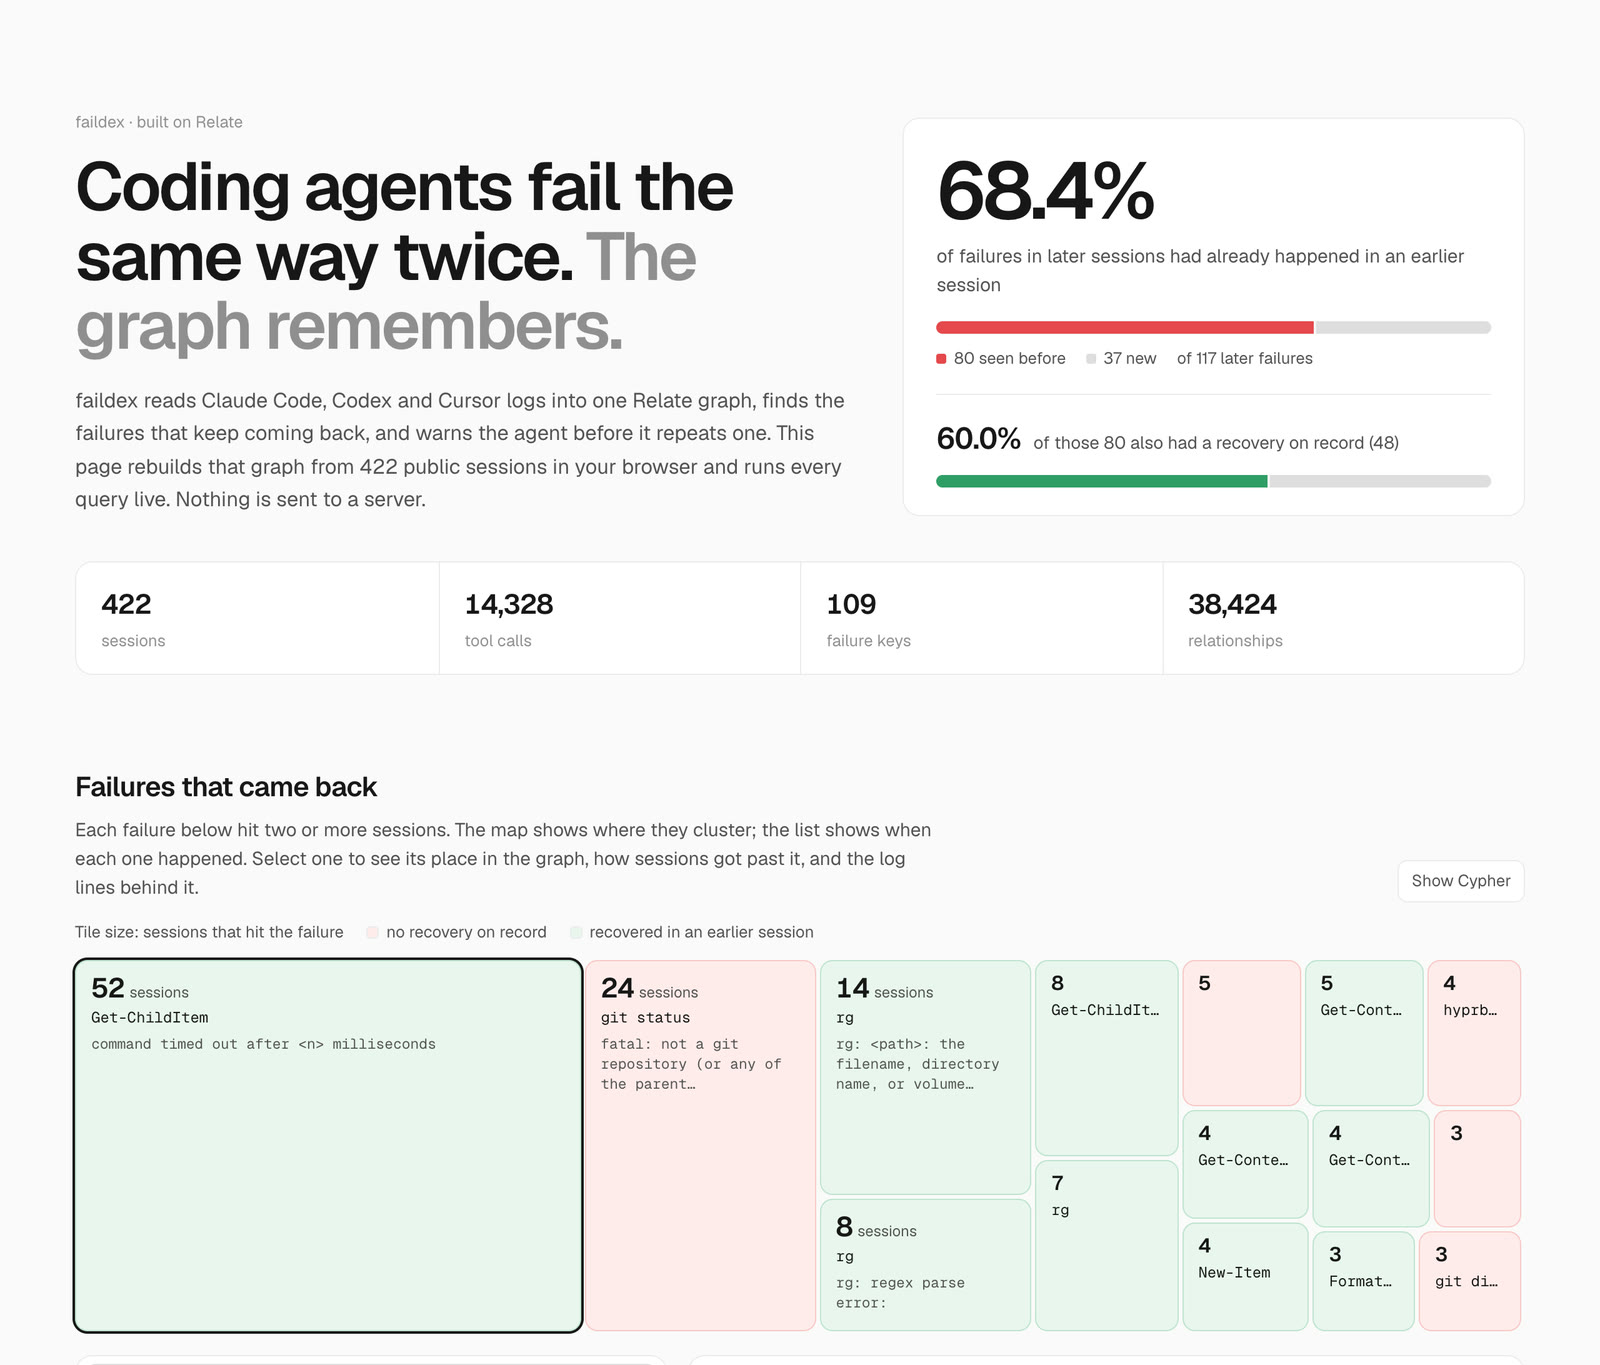
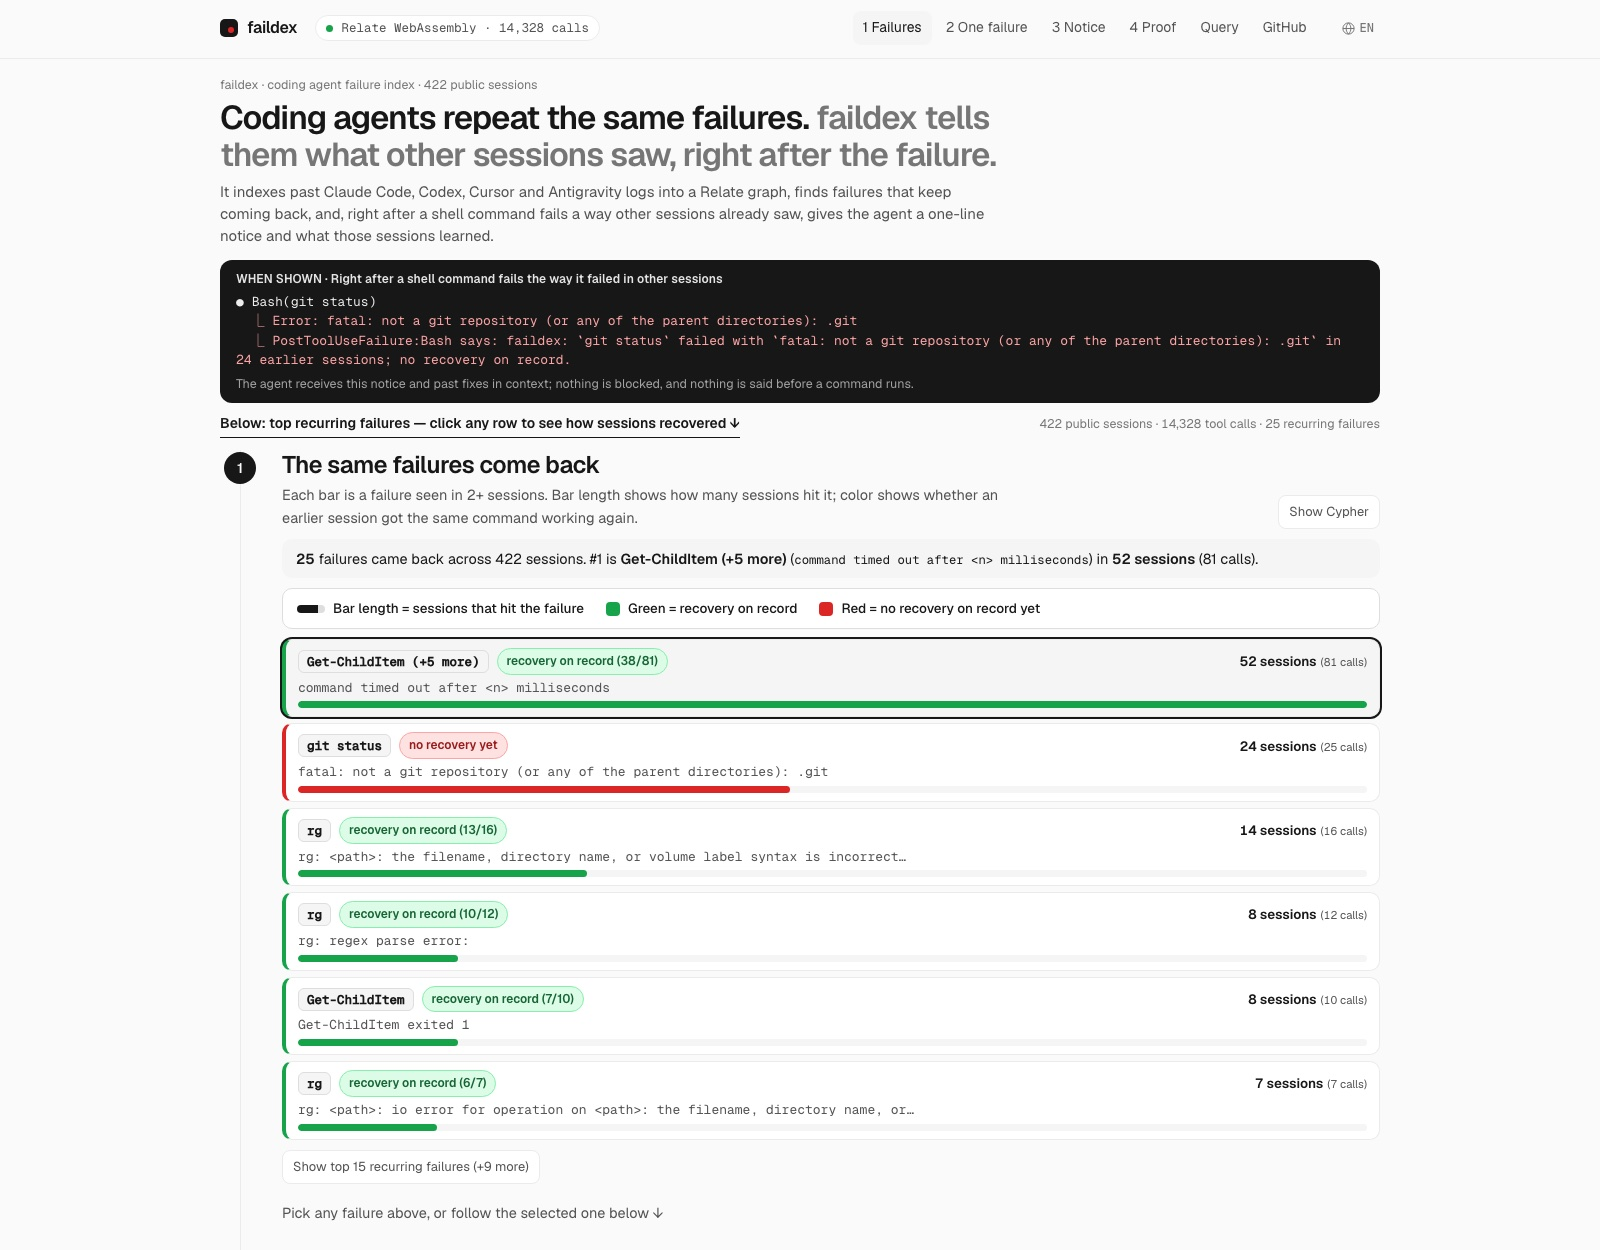
docs: README's first picture is the current demo, with the notice after a failure
The old screenshot was an earlier design of the browser demo, whose text said faildex
warns the agent before it repeats a failure. The new one is the demo's first screen
at 1600 px: the title, the PostToolUseFailure notice after `git status` fails, and the
top of the failures that came back. The alt text in both READMEs says so.

diff --git a/README.ko.md b/README.ko.md
@@ -17,7 +17,7 @@ faildex demo
 
 Windows는 [설치](#설치)의 PowerShell 한 줄을 쓰세요.
 
-![faildex 브라우저 데모: 뒤 기간 실패의 68.4%가 앞선 세션에서 이미 일어났다는 결과와, 되풀이된 실패를 세션 수 크기와 복구 기록 여부 색으로 보여 주는 실패 지도](docs/images/overview.jpg)
+![faildex 브라우저 데모: "Coding agents repeat the same failures. faildex tells them what other sessions saw, right after the failure." 제목, `git status`가 실패한 직후 Claude Code에 뜨는 알림 예시("PostToolUseFailure:Bash says: faildex: `git status` failed with `fatal: not a git repository …` in 24 earlier sessions; no recovery on record."), 되풀이된 실패를 세션 수 길이와 복구 기록 여부 색으로 보여 주는 막대 목록](docs/images/overview.jpg)
 
 *브라우저 데모는 공개 세션 422개로 그래프를 Relate WebAssembly 안에서 다시 만들고
 화면의 모든 수치를 다시 계산합니다. <https://dtype2100.github.io/faildex/>에서 바로 열거나,

diff --git a/README.md b/README.md
@@ -17,7 +17,7 @@ faildex demo
 
 On Windows, see [Install](#install) for the PowerShell line.
 
-![The faildex browser demo: 68.4% of later failures had already happened in an earlier session, and a map of the failures that came back, sized by sessions and coloured by whether a recovery is on record](docs/images/overview.jpg)
+![The faildex browser demo: "Coding agents repeat the same failures. faildex tells them what other sessions saw, right after the failure.", an example of the notice Claude Code shows right after `git status` fails ("PostToolUseFailure:Bash says: faildex: `git status` failed with `fatal: not a git repository …` in 24 earlier sessions; no recovery on record."), and the failures that came back, as bars sized by sessions and coloured by whether a recovery is on record](docs/images/overview.jpg)
 
 *The browser demo rebuilds the graph from 422 public sessions inside Relate
 WebAssembly and recomputes every number on the page. Open it at
